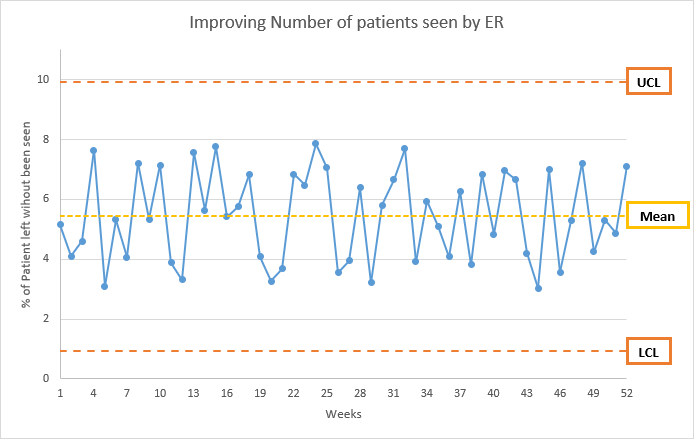
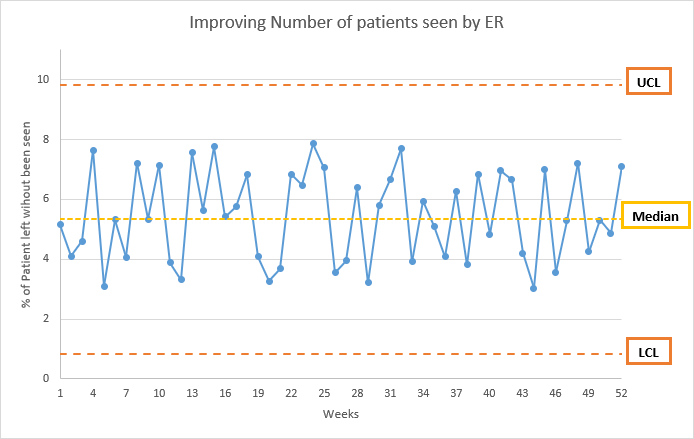
edit xlsx files and added more notes

diff --git a/_posts/2020-04-07-L1 How to Display Data on a Run Chart.md b/_posts/2020-04-07-L1 How to Display Data on a Run Chart.md
@@ -28,7 +28,7 @@ In our previous example, lets say we have data of one year, the basic elements o
  1. **Time** along the X axis.
  2. Our key measure **Number of patient left without been seen** along the Y axis.
  3. **Labels** on the X and Y axis.
- 4. **Title** for the graph.
+ 4. **Title** for the chart.
  5. The **median** of our key measure.
  6. Any other information such is:
 	 - UCL (Upper control limit) is calculated by adding the average to 3 times the standard deviation.
@@ -38,7 +38,7 @@ In our previous example, lets say we have data of one year, the basic elements o
 > **Note:** In excel, the **average** can be found using the function: =AVERAGE(column), and the **standard deviation** can be found with the function =STDEV(column). To get **UCL** the function will be:  
 > =AVERAGE(column) + (STDEV(column) * 3 ) , and to get **LCL** the function will be =AVERAGE(column) - (STDEV(column) * 3 )
 
-an example of the result graph is:  
+an example of the result chart is:  
 ![](/IHI-QI104/img/L1-1.jpg)  
 
 excel file, with the data and chart, can be found [here](/IHI-QI104/xlsx/L1-1.xlsx).
@@ -53,3 +53,8 @@ This is how the previous chart looks like with annotations, baseline and goal li
 ![](/IHI-QI104/img/L1-2.jpg)  
 
 excel file, with the data and chart, can be found [here](/IHI-QI104/xlsx/L1-2.xlsx).
+
+## Computer Programs for Run Charts
+Quick video on how to create run chart in excel
+
+[![](http://img.youtube.com/vi/lUp_TwMdj8k/0.jpg)](http://www.youtube.com/watch?v=lUp_TwMdj8k)
